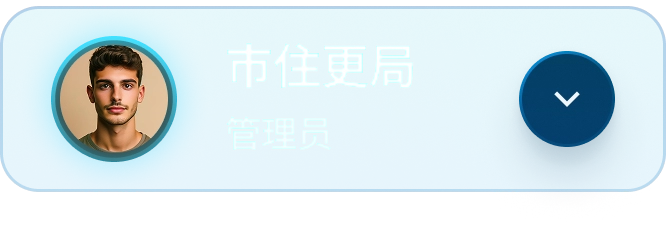
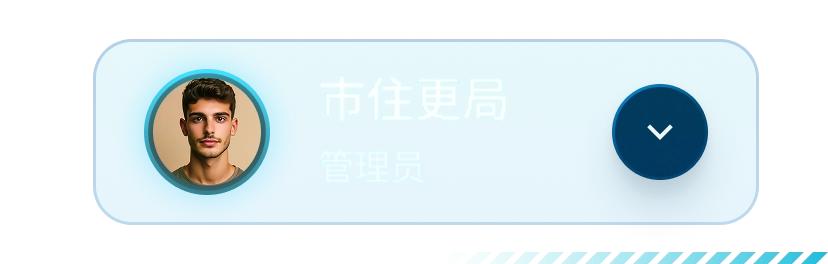
fix(display): 调整头部背景色及用户信息组件样式
- 将头部背景从渐变色改为纯色 #001F40
- 调整用户信息组件尺寸并移除右侧外边距

diff --git a/packages/display/components/header/index.tsx b/packages/display/components/header/index.tsx
@@ -20,7 +20,7 @@ export const Header = defineComponent({
       <header
         class="sticky z-50 relative flex h-90px w-full flex items-center"
         style={{
-          background: 'linear-gradient(180deg, rgba(0, 31, 64, 0.75) 0%, #023164 100%)',
+          background: '#001F40',
           boxShadow: '0 32px 76px 0 rgba(0, 5, 26, 0.30), 0 0 16px 0 rgba(71, 152, 247, 0.60) inset',
           backdropFilter: 'blur(18px)',
         }}

diff --git a/packages/display/components/header/user-profile.tsx b/packages/display/components/header/user-profile.tsx
@@ -9,7 +9,7 @@ import userProfileImg from '@jeesite/assets/images/display/user-profile.webp';
 export const UserProfile = defineComponent({
   setup() {
     return () => (
-      <div class="w-220px h-72px relative flex items-center justify-center ml-auto mr-24px">
+      <div class="w-280px h-88px relative flex items-center justify-center ml-auto">
         <img src={userProfileImg} alt="" class="size-full" />
       </div>
     );
